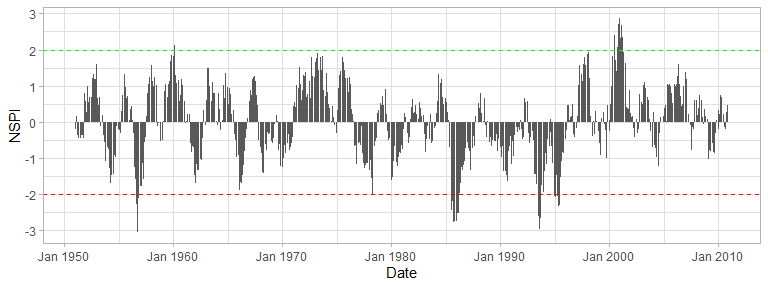
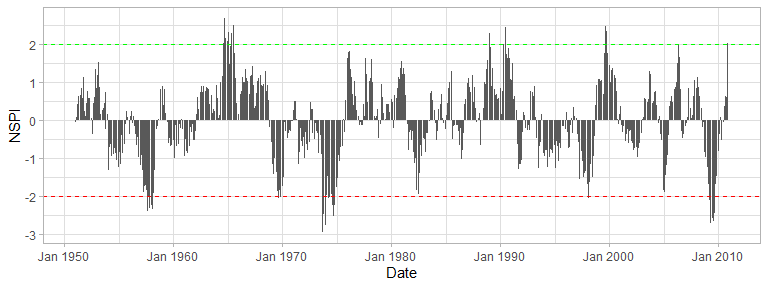
add DOI

Changed region(s): [[0.0312, 0.0312, 1.0, 0.75], [0.0312, 0.7812, 0.9688, 0.8438]]

diff --git a/README.md b/README.md
@@ -5,13 +5,10 @@ droughtR
 
 <img src="https://raw.githubusercontent.com/mammask/droughtr/main/man/figures/droughtR.png" align = "right" width = 120/>
 
-droughtR is an R for package that enables drought monitoring and drought
-forecasting. It computes the Standardized Precipitation Index (SPI) and
-the Non-Standardized Precipitation Index (NSPI) using General Additive
-Models for Location Scale and Shape (GAMLSS). It enables the generation
-of drought forecasts for univariate time series and deals with the bias
-introduced to drought forecasting applications when SPI and NSPI are
-calculated incorrectly during out-of-sample (OOS) validation.
+droughtR is an R for package that enables drought monitoring. It
+computes the Standardized Precipitation Index (SPI) and the
+Non-Standardized Precipitation Index (NSPI) using General Additive
+Models for Location Scale and Shape (GAMLSS).
 
 ## Installation
 
@@ -36,9 +33,9 @@ rain = dummyrainfall(startYear = 1950, endYear = 2010)
 
 # Compute the non-stationary standardized precipitation index (NSPI) for scale 12 using GAMLSS
 drought = computenspi(x = rain, stationaryspi = FALSE, spiScale = 12, dist = 'gamma')
-#> GAMLSS-RS iteration 1: Global Deviance = 3480.109 
-#> GAMLSS-RS iteration 2: Global Deviance = 3480.039 
-#> GAMLSS-RS iteration 3: Global Deviance = 3480.039
+#> GAMLSS-RS iteration 1: Global Deviance = 3506.462 
+#> GAMLSS-RS iteration 2: Global Deviance = 3506.454 
+#> GAMLSS-RS iteration 3: Global Deviance = 3506.454
 
 # Plot NSPI
 plot(drought)
@@ -55,18 +52,18 @@ Split the rainfall series into training validation and test set:
 ``` r
 rain = oossplit(x = rain, trainratio = 0.6, validationratio = 0.2, testratio = 0.2)
 print(rain)
-#>          Date Rainfall Split
-#>   1: Jan 1950 7.612410 Train
-#>   2: Feb 1950 9.083329 Train
-#>   3: Mar 1950 6.825299 Train
-#>   4: Apr 1950 6.887527 Train
-#>   5: May 1950 7.327183 Train
-#>  ---                        
-#> 606: Jul 2010 7.342196  Test
-#> 607: Aug 2010 7.389638  Test
-#> 608: Sep 2010 8.389338  Test
-#> 609: Oct 2010 9.227088  Test
-#> 610: Nov 2010 8.165557  Test
+#>          Date  Rainfall Split
+#>   1: Jan 1950  8.046479 Train
+#>   2: Feb 1950  8.398823 Train
+#>   3: Mar 1950  7.261824 Train
+#>   4: Apr 1950  7.969266 Train
+#>   5: May 1950  5.636277 Train
+#>  ---                         
+#> 606: Jul 2010  7.496439  Test
+#> 607: Aug 2010  8.363361  Test
+#> 608: Sep 2010  8.578427  Test
+#> 609: Oct 2010  7.490492  Test
+#> 610: Nov 2010 14.657480  Test
 ```
 
 #### Bias measurement
@@ -95,32 +92,30 @@ rain = dummyrainfall(startYear = 1950, endYear = 2010)
 
 # Compute bias
 bias = measurebias(x = rain, trainratio = 0.6, validationratio = 0.2, testratio = 0.2, stationaryspi = TRUE, spiscale = 12, dist = 'normal')
-#> GAMLSS-RS iteration 1: Global Deviance = 2143.999 
-#> GAMLSS-RS iteration 2: Global Deviance = 2143.999 
-#> GAMLSS-RS iteration 1: Global Deviance = 3602.639 
-#> GAMLSS-RS iteration 2: Global Deviance = 3602.639
+#> GAMLSS-RS iteration 1: Global Deviance = 2190.665 
+#> GAMLSS-RS iteration 2: Global Deviance = 2190.665 
+#> GAMLSS-RS iteration 1: Global Deviance = 3568.695 
+#> GAMLSS-RS iteration 2: Global Deviance = 3568.695
 bias
 #> $Transitions
 #>     Bias Corrected Class Bias Induced Class   N
-#>  1:          Near Normal        Near Normal 215
-#>  2:       Moderately Wet     Moderately Wet  26
-#>  3:       Moderately Wet        Near Normal   3
-#>  4:             Very Wet           Very Wet   6
-#>  5:          Near Normal     Moderately Dry   5
-#>  6:       Moderately Dry     Moderately Dry  39
-#>  7:       Moderately Dry           Very Dry   1
-#>  8:          Near Normal     Moderately Wet   9
-#>  9:       Moderately Dry        Near Normal   9
-#> 10:             Very Dry     Moderately Dry   7
-#> 11:             Very Dry           Very Dry   6
-#> 12:        Extremely Dry           Very Dry   2
-#> 13:        Extremely Dry      Extremely Dry   4
-#> 14:        Extremely Wet      Extremely Wet  15
-#> 15:             Very Wet      Extremely Wet   1
-#> 16:       Moderately Wet           Very Wet   7
+#>  1:          Near Normal     Moderately Wet   8
+#>  2:          Near Normal        Near Normal 204
+#>  3:       Moderately Wet           Very Wet  18
+#>  4:       Moderately Dry     Moderately Dry  26
+#>  5:       Moderately Dry        Near Normal   3
+#>  6:             Very Dry           Very Dry   9
+#>  7:        Extremely Dry      Extremely Dry   6
+#>  8:             Very Dry      Extremely Dry   6
+#>  9:       Moderately Wet     Moderately Wet  24
+#> 10:             Very Wet           Very Wet  15
+#> 11:             Very Wet      Extremely Wet   9
+#> 12:        Extremely Wet      Extremely Wet   9
+#> 13:          Near Normal     Moderately Dry   9
+#> 14:       Moderately Dry           Very Dry   9
 #> 
 #> $`Impacted Records`
-#> [1] "12.39% of records changed drought class"
+#> [1] "17.46% of records changed drought class"
 #> 
 #> $Plot
 ```
